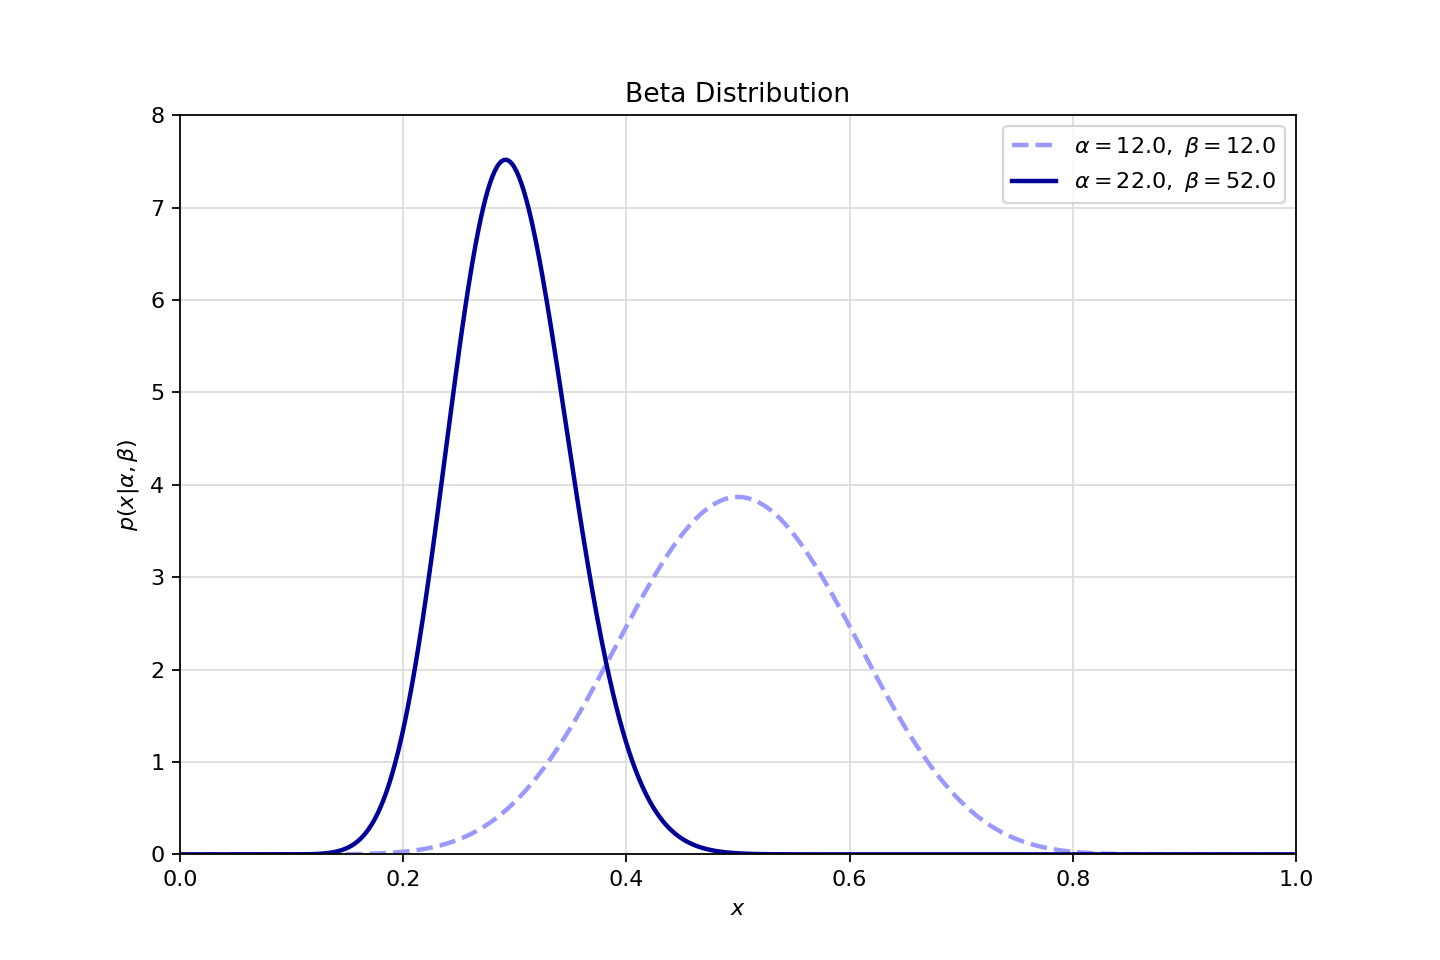
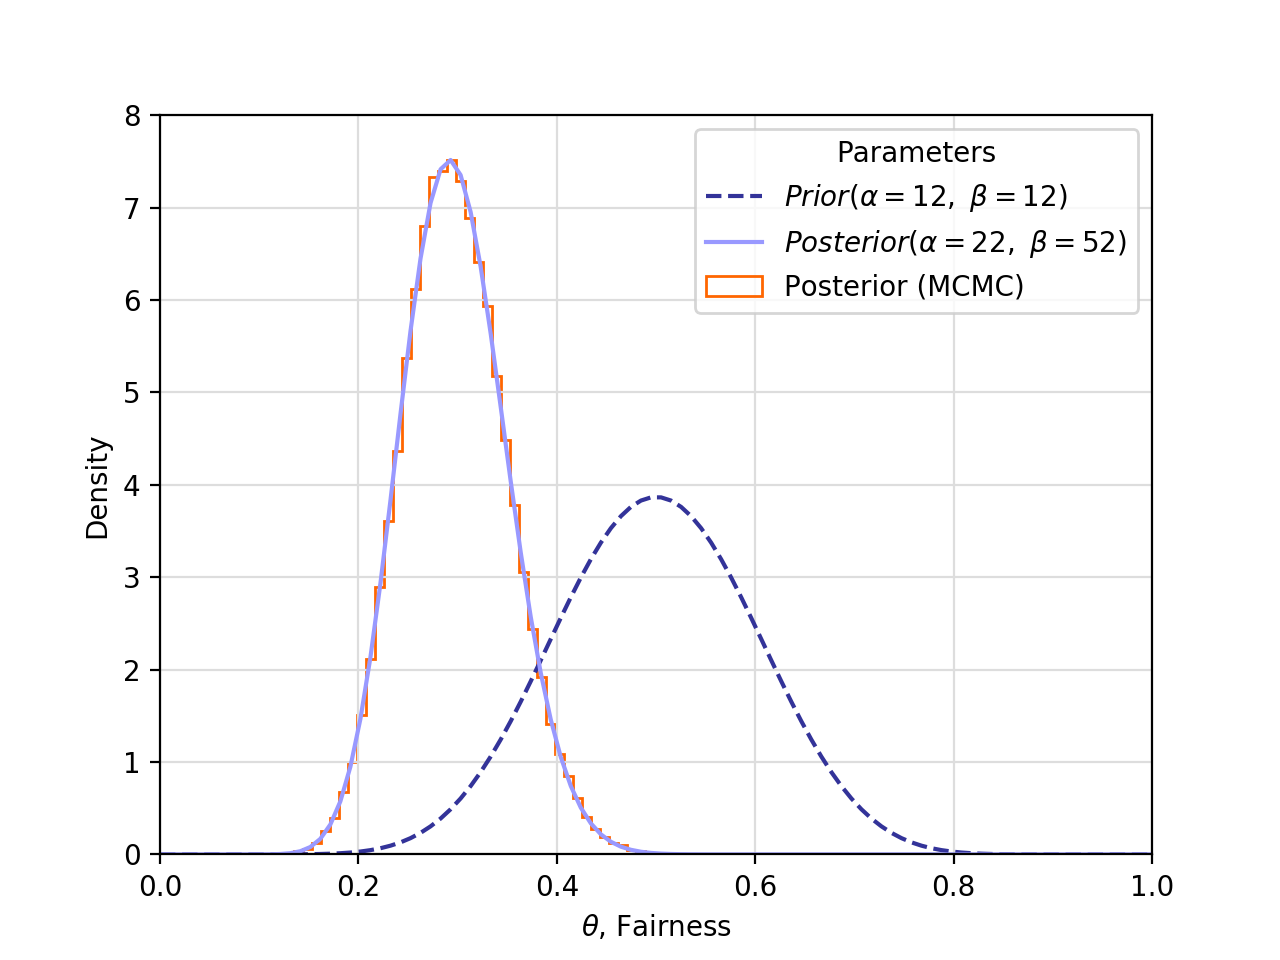
okay plot mcmc histogram

diff --git a/demos/libraries/pymc3/pymc3_01_beta.py b/demos/libraries/pymc3/pymc3_01_beta.py
@@ -20,10 +20,10 @@ iterations = 100000
 # Use PyMC3 to construct a model context
 basic_model = pymc3.Model()
 with basic_model:
-    # Let theta be the paramater to be determined by the prior beta distribution
+    # Let theta be the parameter to be determined by the prior beta distribution
     theta = pymc3.Beta('theta', alpha=alpha_prior, beta=beta_prior)
 
-    # Define the Bernoulli likelihood function
+    # Define the Binomial likelihood with n trials p theta parameter
     y = pymc3.Binomial('y', n=trials, p=theta, observed=successes)
 
     '''
@@ -34,10 +34,10 @@ with basic_model:
     start = pymc3.sample()
 
     # Use the Metropolis algorithm (as opposed to NUTS or HMC, etc.)
-    step = pymc3.Metropolis()
+    jump = pymc3.Metropolis()
 
-    # Calculate the trace
-    trace = pymc3.sample(iterations, step, start, random_seed=1, progressbar=True)
+    # Calculate the trace. Samples are stored here
+    trace = pymc3.sample(iterations, jump, start, random_seed=1, progressbar=True)
 
 # Plot the analytic prior and posterior beta distributions
 x = np.linspace(0, 1, 100)

diff --git a/docs/mcmc.md b/docs/mcmc.md
@@ -181,10 +181,6 @@ beta_distributions = [
 ]
 ```
 
-<p align="center">
-  <img src="./img/f6d828f3-14e5-4138-89a1-7d21377784ee.png" width="480" height="320" />
-</p>
-
 * In this case, obtaining the posterior is relatively easy. So let's do it with `PyMC3` to confirm it works.
 * Establish prior parameters and data:
 
@@ -203,9 +199,45 @@ alpha_posterior = alpha_prior + z
 beta_posterior = beta_prior + n - z
 
 # number of iterations of Metropolis algorithm for MCMC
-iterations = 20000
+iterations = 100000
 ```
 
+* `PyMC3` uses a with context to assign all the parameters to a `pymc3.Model` instance, which in this case is named `basic_model`
+
+```python
+basic_model = pymc3.Model()
+with basic_model:
+    # Let theta be the parameter to be determined by the prior distribution
+    theta = pymc3.Beta('theta', alpha=alpha_prior, beta=beta_prior)
+
+    # Define the Binomial likelihood with n trials p theta parameter
+    y = pymc3.Binomial('y', n=trials, p=theta, observed=successes)
+
+    # define a place to start sampling
+    start = pymc3.sample()
+
+    # Use the Metropolis algorithm (as opposed to NUTS or HMC, etc.)
+    jump = pymc3.Metropolis()
+
+    # Calculate the trace. Samples are stored here
+    trace = pymc3.sample(iterations, jump, start, random_seed=1, progressbar=True)
+```
+
+<p align="center">
+  <img src="./img/f6d828f3-14e5-4138-89a1-7d21377784ee.png" width="512" height="384" />
+</p>
+
+* Plot the posterior as a histogram
+
+```python
+plt.hist(
+    trace['theta'],
+    50, # number of bins
+    histtype='step',
+    normed=True,
+    label='Posterior (MCMC)'
+)
+```
 
 <!--
 
